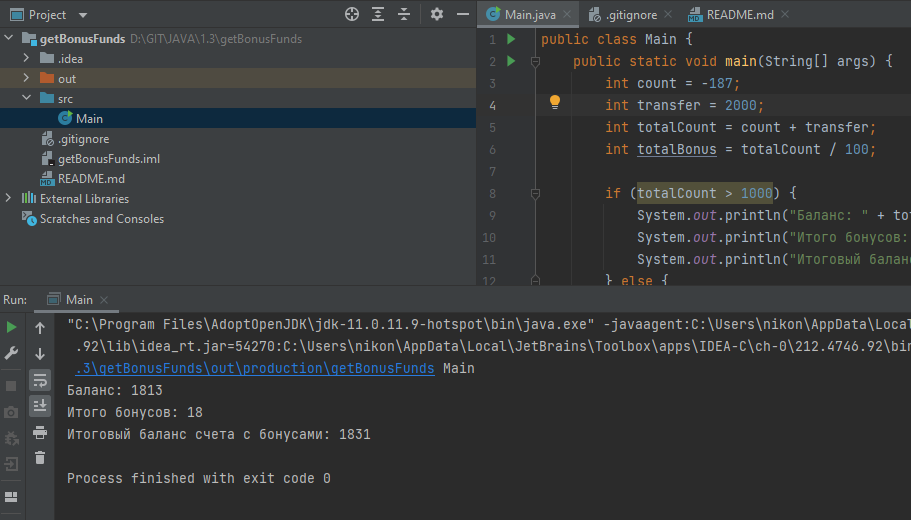
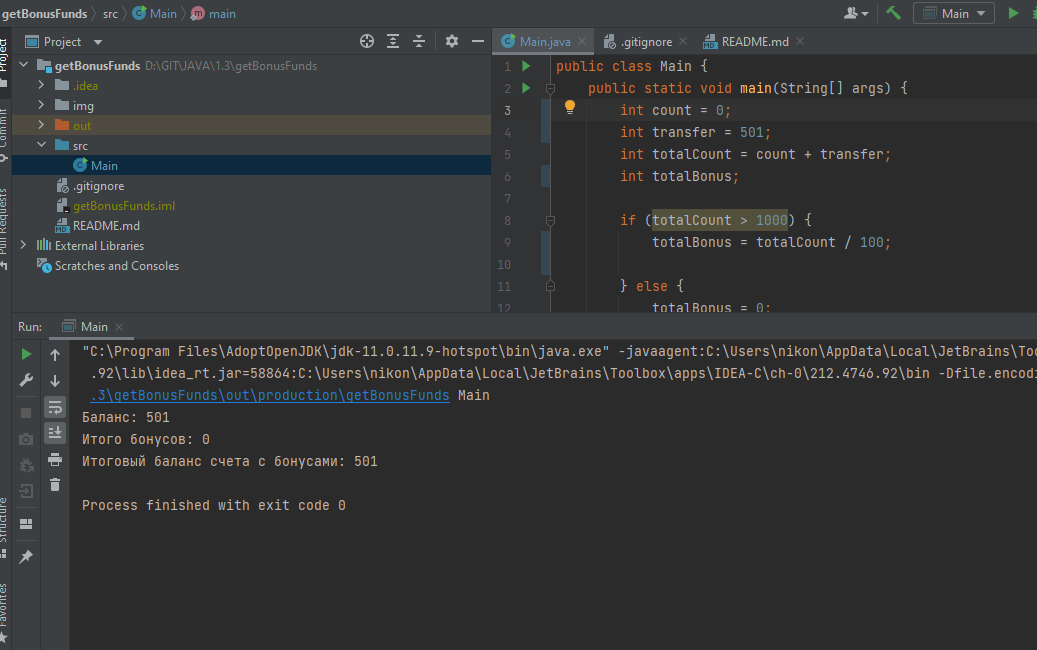
mark1

diff --git a/src/Main.java b/src/Main.java
@@ -1,20 +1,19 @@
 public class Main {
     public static void main(String[] args) {
         int count = 500;
-        int transfer = 200;
+        int transfer = 501;
         int totalCount = count + transfer;
-        int totalBonus = totalCount / 100;
+        int totalBonus;
 
         if (totalCount > 1000) {
-            System.out.println("Баланс: " + totalCount);
-            System.out.println("Итого бонусов: " + totalBonus);
-            System.out.println("Итоговый баланс счета с бонусами: " + (totalCount + totalBonus));
+            totalBonus = totalCount / 100;
+
         } else {
             totalBonus = 0;
-            System.out.println("Баланс: " + totalCount);
-            System.out.println("Итого бонусов: " + totalBonus);
-            System.out.println("Итоговый баланс счета с бонусами: " + totalCount);
-        }
 
+        }
+        System.out.println("Баланс: " + totalCount);
+        System.out.println("Итого бонусов: " + totalBonus);
+        System.out.println("Итоговый баланс счета с бонусами: " + (totalCount + totalBonus));
     }
 }
